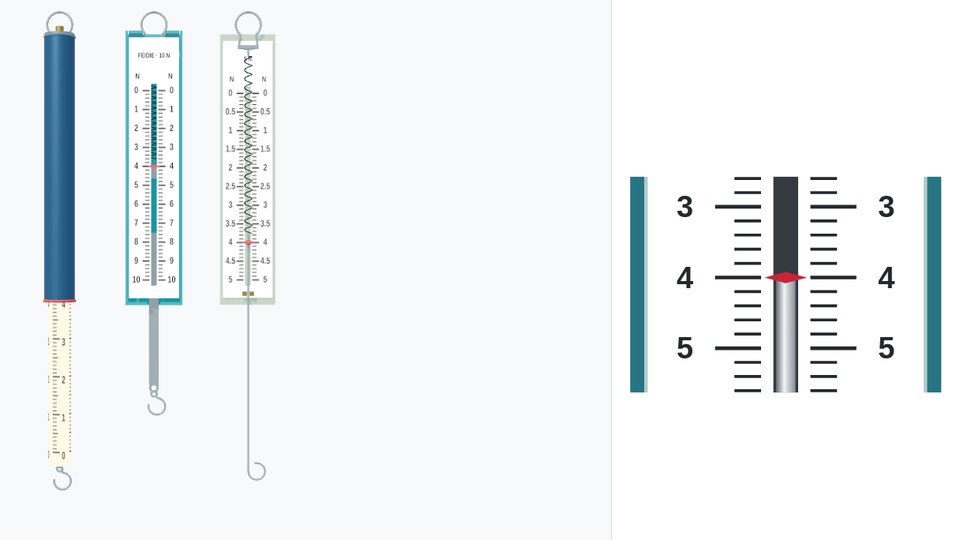
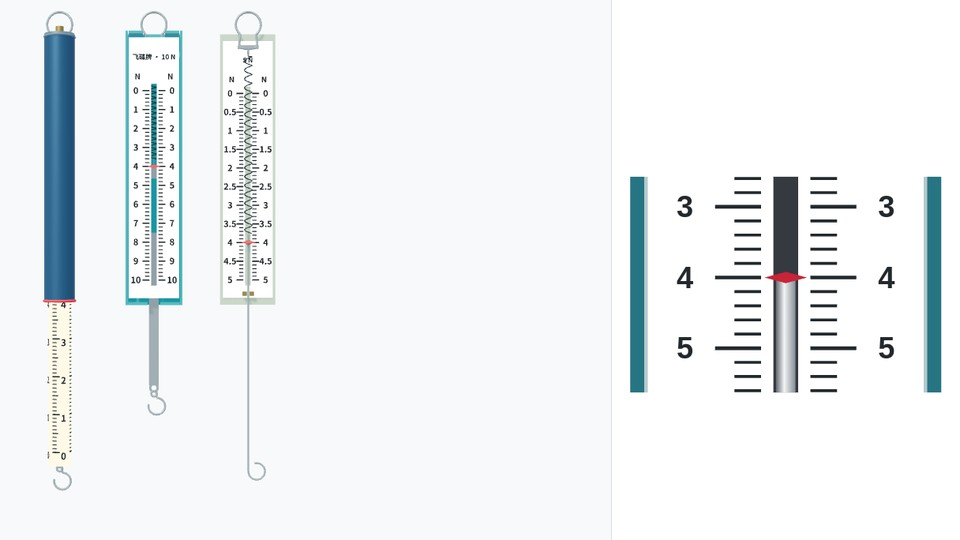
Render spring meter markings as vector geometry

diff --git a/models/spring-force-meters.html b/models/spring-force-meters.html
@@ -68,8 +68,8 @@ input[type=range]{display:block;width:100%;accent-color:var(--accent);margin:5px
 'use strict';
 const $=s=>document.querySelector(s),T=THREE,canvas=$('#view');
 let renderer;try{renderer=new T.WebGLRenderer({canvas,antialias:true,preserveDrawingBuffer:true});}catch(e){$('#error').style.display='block';$('#error').textContent='浏览器无法启动 WebGL。请在 Chrome / Edge 中启用硬件加速。';throw e;}
-renderer.setPixelRatio(Math.min(devicePixelRatio,2));renderer.outputColorSpace=T.SRGBColorSpace;renderer.toneMapping=T.ACESFilmicToneMapping;renderer.toneMappingExposure=1.15;renderer.shadowMap.enabled=true;renderer.shadowMap.type=T.PCFSoftShadowMap;
-const scene=new T.Scene();scene.background=new T.Color('#f7f9fb');const camera=new T.PerspectiveCamera(34,1,.1,2500);
+renderer.outputColorSpace=T.SRGBColorSpace;renderer.toneMapping=T.ACESFilmicToneMapping;renderer.toneMappingExposure=1.15;renderer.shadowMap.enabled=true;renderer.shadowMap.type=T.PCFSoftShadowMap;
+const scene=new T.Scene();scene.background=new T.Color('#f7f9fb');const camera=new T.PerspectiveCamera(34,1,4,2500);
 scene.add(new T.HemisphereLight(0xffffff,0x8192a4,2.0));const sun=new T.DirectionalLight(0xfffcf6,3);sun.position.set(-160,270,280);sun.castShadow=true;sun.shadow.mapSize.set(1024,1024);sun.shadow.camera.left=-250;sun.shadow.camera.right=250;sun.shadow.camera.top=300;sun.shadow.camera.bottom=-350;sun.shadow.camera.far=900;sun.shadow.normalBias=.12;scene.add(sun);
 const room=new T.Scene();room.background=new T.Color('#b6bfc8');function envPanel(x,y,z,w,h,c){const m=new T.Mesh(new T.PlaneGeometry(w,h),new T.MeshBasicMaterial({color:c,side:T.DoubleSide}));m.position.set(x,y,z);m.lookAt(0,0,0);room.add(m);}envPanel(-150,40,180,90,350,'#ffffff');envPanel(180,90,50,100,280,'#eef7ff');envPanel(0,220,0,350,180,'#fff5d9');const pm=new T.PMREMGenerator(renderer);scene.environment=pm.fromScene(room,.03).texture;pm.dispose();
 const mat={steel:new T.MeshStandardMaterial({color:0xaeb9bb,metalness:.88,roughness:.3}),spring:new T.MeshStandardMaterial({color:0x515f62,metalness:.87,roughness:.33}),teal:new T.MeshStandardMaterial({color:0x168188,roughness:.62,metalness:0}),green:new T.MeshStandardMaterial({color:0x95a98f,roughness:.8}),red:new T.MeshStandardMaterial({color:0xd72f3d,roughness:.5}),white:new T.MeshStandardMaterial({color:0xecf0f3,roughness:.8,metalness:.15}),dark:new T.MeshStandardMaterial({color:0x293e3d,roughness:.8}),brass:new T.MeshStandardMaterial({color:0xa18c52,metalness:.85,roughness:.35})};
@@ -84,7 +84,6 @@ function springGeo(d){const v=[],ind=[],N=400,K=8;for(let i=0;i<=N;i++){const t=
 function spring(p){const g=new T.Group();g.name='弹簧与端部挂环';p.add(g);const coil=mesh(springGeo(0),mat.spring,g,'等线径拉伸弹簧');const eyeTop=ring(g,'上挂环直接挂横杆',0,84,0,3,.36,[0,Math.PI/2,0]);rod(g,'上端连接弯线',[[0,81,0],[2.65,81,0]],.36,mat.spring);const eyeBottom=ring(g,'弹簧下端挂环',0,58,0,3,.36,[0,Math.PI/2,0]);return{group:g,coil,eyeBottom};}
 const specs={A:{name:'甲 · 圆筒式',max:5,div:.1,x:-68,majorEvery:10},B:{name:'乙 · 条形盒式',max:10,div:.2,x:0,majorEvery:5},C:{name:'丙 · 开放式',max:5,div:.1,x:68,majorEvery:5}},models={};
 function base(k){const root=new T.Group(),moving=new T.Group(),cover=new T.Group(),housing=new T.Group();scene.add(root);root.name=specs[k].name;root.position.x=specs[k].x;root.add(housing,cover,moving);const sp=spring(root);hanger(root);hook(moving,k==='B'?'独立 S 钩':'下挂钩');const o={root,moving,cover,housing,sp,k,max:specs[k].max,parts:[]};models[k]=o;return o;}
-function canvasTex(c){const t=new T.CanvasTexture(c);t.colorSpace=T.SRGBColorSpace;t.anisotropy=renderer.capabilities.getMaxAnisotropy();t.minFilter=T.LinearMipmapLinearFilter;t.magFilter=T.LinearFilter;return t;}
 const graduations = Object.fromEntries(Object.entries(specs).map(([key, spec]) => {
   const count = Math.round(spec.max / spec.div);
   const marks = Array.from({length:count + 1}, (_, index) => ({
@@ -95,72 +94,130 @@ const graduations = Object.fromEntries(Object.entries(specs).map(([key, spec]) =
   }));
   return [key, marks];
 }));
-function dialTexture(k){
-  const c = document.createElement('canvas');
-  c.width = 1024;
-  c.height = 4096;
-  const ctx = c.getContext('2d');
-  const px = x => (x + 18) / 36 * c.width;
-  const py = y => (93 - y) / 186 * c.height;
-  ctx.fillStyle = '#ffffff';
-  ctx.fillRect(0, 0, c.width, c.height);
-  ctx.fillStyle = ctx.strokeStyle = '#23282c';
-  ctx.textAlign = 'center';
-  ctx.textBaseline = 'middle';
-  ctx.font = 'bold 104px Arial';
-  ctx.fillText(k === 'B' ? 'FEIDIE · 10 N' : '5 N', 512, 290);
-  ctx.font = 'bold 124px Arial';
-  for(const x of [-11.7, 11.7]) ctx.fillText('N', px(x), py(65));
-  ctx.font = 'bold 146px Arial';
-  for(const mark of graduations[k]){
-    const y = py(55 - 135 * mark.fraction);
-    const length = mark.major ? 5.1 : 3.1;
-    ctx.lineWidth = mark.major ? 23 : 15;
-    ctx.beginPath();
-    ctx.moveTo(px(-3.1 - length), y);
-    ctx.lineTo(px(-3.1), y);
-    ctx.moveTo(px(3.1), y);
-    ctx.lineTo(px(3.1 + length), y);
-    ctx.stroke();
+// Noto Sans CJK SC Bold, © 2014–2021 Adobe (SIL OFL 1.1). Outlines use 500 units per em.
+// Each entry is [advance, shapes]; a shape begins with its outer contour, then its counters.
+const scaleGlyphOutlines = {
+  "0": [295,[[[148,-7,167,-5,186,0,203,8,219,19,232,34,244,51,254,72,262,96,268,123,272,154,273,187,272,223,267,256,260,284,251,309,239,330,224,347,208,360,190,369,169,375,148,377,126,375,105,369,87,360,71,347,56,330,44,309,35,284,28,256,23,223,22,187,23,154,27,123,33,96,41,72,51,51,63,34,76,19,92,8,109,0,128,-5],[148,50,137,52,128,56,119,63,111,73,104,87,99,105,95,128,92,155,92,187,92,219,95,245,99,267,104,285,111,299,119,309,128,316,137,319,148,320,158,319,167,316,176,309,184,299,190,285,196,267,200,245,202,219,203,187,202,155,200,128,196,105,190,87,184,73,176,63,167,56,158,52]]]],
+  "1": [295,[[[41,0,264,0,264,60,194,60,194,370,140,370,121,360,102,352,79,345,54,340,54,294,121,294,121,60,41,60]]]],
+  "2": [295,[[[22,0,270,0,270,62,190,62,170,61,149,60,128,58,157,86,183,116,205,145,225,175,239,205,249,234,252,263,250,285,245,305,237,323,226,339,213,352,197,363,178,371,158,375,136,377,112,375,90,371,70,363,52,352,35,338,18,320,58,281,73,296,89,308,107,316,126,319,142,317,156,312,167,303,175,291,180,277,182,260,179,240,173,219,162,198,148,175,130,151,108,126,82,100,54,72,22,42]]]],
+  "3": [295,[[[136,-7,160,-6,182,-1,202,6,220,15,236,27,249,42,259,59,265,78,267,100,265,120,260,138,251,153,240,166,226,177,211,185,194,192,194,194,212,203,227,214,239,227,248,242,253,259,255,278,253,299,248,317,240,332,228,346,214,357,198,366,179,372,158,376,135,377,110,375,86,369,64,360,44,347,24,332,62,286,78,300,95,310,112,317,132,319,146,318,158,314,168,307,175,298,180,286,181,273,180,261,177,250,170,240,162,232,149,226,134,221,115,218,92,216,92,164,119,162,141,159,159,154,172,148,182,139,188,129,192,118,193,104,191,89,185,76,176,66,163,59,148,55,130,53,110,55,93,60,76,68,61,79,48,91,13,44,27,30,44,18,63,8,84,0,109,-5]]]],
+  "4": [295,[[[168,0,237,0,237,96,281,96,281,152,237,152,237,370,148,370,10,146,10,96,168,96],[168,152,82,152,140,244,155,274,169,304,172,304,170,286,169,266,169,246,168,228]]]],
+  "5": [295,[[[138,-7,161,-5,182,0,202,8,220,20,236,35,249,53,259,73,265,97,268,123,266,148,260,170,252,189,241,205,227,218,211,228,193,235,174,239,154,240,138,239,123,236,109,230,116,308,250,308,250,370,52,370,42,190,76,169,88,176,99,182,109,185,120,187,132,188,147,187,160,182,172,175,181,165,188,153,192,138,194,121,192,104,188,88,180,76,170,66,158,59,144,54,128,53,109,55,91,60,75,68,60,79,47,90,13,44,28,30,45,18,64,8,86,0,111,-5]]]],
+  "6": [295,[[[158,-7,179,-5,198,0,216,8,232,20,246,34,258,51,267,71,272,93,274,117,272,142,268,163,260,182,250,198,237,211,223,220,206,227,187,232,168,233,153,231,137,226,121,219,105,208,92,194,94,222,99,247,105,267,113,284,123,297,134,306,146,313,159,317,173,318,189,316,204,310,218,301,230,291,268,335,254,348,237,360,217,369,194,375,168,377,148,376,128,371,110,363,92,353,76,339,62,321,49,300,39,276,31,248,27,216,25,180,27,146,31,116,38,90,47,66,59,46,72,30,87,16,103,6,121,-1,139,-6],[94,142,105,157,117,168,130,175,142,180,154,181,167,180,179,176,188,170,196,161,202,149,206,134,207,117,206,99,202,84,196,71,188,61,179,54,168,50,156,48,144,50,132,55,121,64,111,77,104,94,98,116]]]],
+  "7": [295,[[[93,0,167,0,169,41,172,79,176,114,182,147,189,178,199,207,212,236,228,265,247,295,271,326,271,370,25,370,25,308,192,308,170,276,151,245,136,214,124,182,114,149,106,115,100,79,96,41]]]],
+  "8": [295,[[[148,-7,171,-5,193,-1,213,6,230,16,245,28,256,41,265,57,270,74,272,92,270,116,263,136,254,154,241,168,226,181,210,191,210,194,224,206,237,220,247,238,254,257,257,278,255,299,249,318,240,335,228,349,212,361,194,369,173,375,150,376,126,375,105,370,86,361,70,350,56,336,46,319,40,300,38,278,40,256,47,237,57,219,71,204,87,191,87,188,70,178,55,166,42,151,32,134,26,114,24,92,25,73,31,56,40,41,52,27,66,15,84,6,103,-1,124,-6],[170,212,152,219,136,228,122,238,112,249,105,263,103,278,105,292,109,304,116,313,125,320,136,324,148,325,162,323,174,318,184,310,191,300,196,288,197,274,195,257,190,241,182,226],[149,45,132,47,118,52,105,60,95,71,89,84,87,100,89,116,93,132,100,146,110,158,121,169,141,160,158,152,174,143,186,134,196,123,201,110,204,94,202,80,196,67,188,58,177,51,164,46]]]],
+  "9": [295,[[[128,-7,147,-5,167,-1,185,7,203,18,219,32,233,50,245,71,256,96,263,125,268,157,270,194,268,227,264,256,257,283,247,305,236,325,223,341,208,354,191,364,174,371,155,376,136,377,116,375,96,370,78,362,62,351,48,336,36,319,27,300,22,278,20,254,22,229,26,207,34,188,44,173,56,160,71,150,88,143,106,138,126,137,142,139,158,144,174,152,189,163,202,177,200,148,195,124,189,104,181,87,172,74,161,65,150,58,137,54,124,53,107,55,91,61,77,69,65,80,26,35,41,22,58,10,78,1,101,-5],[201,230,190,214,178,203,165,195,152,191,140,190,127,191,116,195,106,201,98,210,92,222,89,236,88,254,89,272,93,287,99,299,106,309,116,316,126,320,138,322,151,320,163,315,174,306,183,294,191,277,197,256]]]],
+  ".": [162,[[[82,-7,94,-5,105,-1,114,7,121,17,125,28,127,41,125,54,121,66,114,75,105,83,94,87,82,89,69,87,58,83,49,75,42,66,37,54,36,41,37,28,42,17,49,7,58,-1,69,-5]]]],
+  "N": [374,[[[46,0,116,0,116,148,115,181,112,214,109,246,106,278,109,278,146,198,253,0,328,0,328,370,258,370,258,222,260,190,262,156,265,124,268,93,266,93,228,173,121,370,46,370]]]],
+  "·": [500,[[[250,254,235,252,222,247,210,240,200,230,193,218,188,205,186,190,188,175,193,162,200,150,210,140,222,133,235,128,250,126,265,128,278,133,290,140,300,150,307,162,312,175,314,190,312,205,307,218,300,230,290,240,278,247,265,252]]]],
+  "飞": [500,[[[422,369,405,348,385,325,363,303,340,281,339,319,339,359,339,400,27,400,27,338,278,338,280,283,283,231,287,184,292,140,300,101,310,66,321,36,336,11,352,-9,372,-23,395,-32,422,-35,436,-34,448,-30,459,-22,467,-11,474,4,479,23,483,47,486,76,471,86,456,99,442,114,441,92,439,73,437,57,435,45,432,36,428,30,424,28,410,30,397,37,386,48,377,63,368,82,361,104,355,131,350,161,346,195,370,182,394,168,416,154,435,141,450,128,481,176,464,189,444,201,420,215,396,228,372,240,398,264,425,288,451,314,476,340]]]],
+  "碟": [500,[[[22,402,22,348,75,348,67,309,56,272,43,237,28,206,10,179,15,169,19,156,23,143,27,129,30,117,32,108,41,120,50,132,50,-21,99,-21,99,16,176,16,176,247,104,247,119,297,131,348,181,348,181,402],[99,194,127,194,127,68,99,68]],[[216,411,216,358,186,358,186,311,216,311,216,171,298,171,298,140,186,140,186,90,275,90,258,70,238,50,217,32,194,16,170,4,180,-6,191,-18,201,-30,208,-42,233,-25,256,-5,278,17,298,42,298,-44,353,-44,353,48,374,22,398,-1,422,-21,447,-37,455,-26,465,-13,475,-1,486,8,461,20,437,35,413,52,392,71,374,90,478,90,478,140,353,140,353,171,460,171,460,218,266,218,266,311,300,311,300,241,430,241,430,311,473,311,473,358,430,358,430,418,380,418,380,358,348,358,348,418,300,418,300,358,266,358,266,411],[380,311,380,281,348,281,348,311]]]],
+  "牌": [500,[[[220,378,220,178,288,178,276,165,260,152,240,140,216,130,226,122,237,113,246,104,202,104,202,54,360,54,360,-45,416,-45,416,54,482,54,482,104,416,104,416,168,360,168,360,104,270,104,293,117,312,131,328,146,340,161,350,178,468,178,468,378,360,378,380,414,314,426,310,411,305,394,299,378],[272,258,318,258,316,241,312,223,272,223],[368,258,414,258,414,223,365,223,367,240],[272,333,318,333,318,300,272,300],[368,333,414,333,414,300,368,300]],[[43,412,43,225,43,197,42,166,40,133,38,99,34,65,28,32,21,0,12,-28,24,-32,37,-36,51,-41,62,-46,71,-13,79,22,85,59,89,97,92,134,136,134,136,-46,190,-46,190,185,94,185,94,225,94,242,211,242,211,293,178,293,178,424,126,424,126,293,94,293,94,412]]]],
+};
+const scaleGlyphs = Object.fromEntries(Object.entries(scaleGlyphOutlines).map(([character,[advance,shapes]]) => {
+  const contours = shapes.map(rings => {
+    const [outer,...holes] = rings.map(ring => {
+      const points = [];
+      for(let i = 0; i < ring.length; i += 2) points.push(new T.Vector2(ring[i],ring[i + 1]));
+      return points;
+    });
+    const triangles = T.ShapeUtils.triangulateShape(outer,holes);
+    return {points:outer.concat(...holes),triangles};
+  });
+  return [character,{advance,contours}];
+}));
+const scaleInk = new T.MeshBasicMaterial({color:0x23282c,toneMapped:false});
+const scaleWhite = new T.MeshBasicMaterial({color:0xffffff,toneMapped:false});
+const scaleIvory = new T.MeshBasicMaterial({color:0xfff9e7,toneMapped:false});
+const rectTriangles = [[0,1,2],[0,2,3]];
+
+function createScaleGeometry(project){
+  const vertices = [], indices = [];
+  function append(points,triangles){
+    const base = vertices.length / 3;
+    for(const {x,y} of points) vertices.push(...project(x,y));
+    for(const triangle of triangles) indices.push(...triangle.map(index => base + index));
+  }
+  return {
+    mark(left,right,y,thickness,segments=1){
+      const bottom = y - thickness / 2, top = y + thickness / 2;
+      for(let i = 0; i < segments; i++){
+        const x0 = T.MathUtils.lerp(left,right,i / segments);
+        const x1 = T.MathUtils.lerp(left,right,(i + 1) / segments);
+        append([{x:x0,y:bottom},{x:x1,y:bottom},{x:x1,y:top},{x:x0,y:top}],rectTriangles);
+      }
+    },
+    label(value,x,y,size){
+      const characters = [...String(value)];
+      const width = character => scaleGlyphs[character]?.advance ?? 112;
+      const scale = size / 500;
+      let left = x - characters.reduce((sum,character) => sum + width(character),0) * scale / 2;
+      for(const character of characters){
+        const glyph = scaleGlyphs[character];
+        if(glyph){
+          for(const {points,triangles} of glyph.contours){
+            append(points.map(p => ({x:left + p.x * scale,y:y + (p.y - 182) * scale})),triangles);
+          }
+        }
+        left += width(character) * scale;
+      }
+    },
+    build(){
+      const geometry = new T.BufferGeometry();
+      geometry.setAttribute('position',new T.Float32BufferAttribute(vertices,3));
+      geometry.setIndex(indices);
+      return geometry;
+    },
+  };
+}
+function mountScale(parent,layout,position){
+  const scale = mesh(layout.build(),scaleInk,parent,'矢量刻线与标字',position);
+  scale.castShadow = false;
+  scale.receiveShadow = false;
+}
+function frontPanel(o){
+  const depth = .7;
+  const plateZ = 7.7;
+  shapePlate(o.cover,'有厚度的金属刻度板',-18,18,-93,93,plateZ,[[-2,2,-84,60]],[scaleWhite,mat.white],depth);
+  const art = createScaleGeometry((x,y) => [x,y,0]);
+  art.label(o.k === 'B' ? '飞碟牌 · 10 N' : '5 N',0,79,4.65);
+  for(const x of [-11.7,11.7]) art.label('N',x,65,5.5);
+  for(const mark of graduations[o.k]){
+    const y = 55 - 135 * mark.fraction;
+    const edge = mark.major ? 8.2 : 6.3;
+    const thickness = mark.major ? .92 : .63;
+    art.mark(-edge,-3.2,y,thickness);
+    art.mark(3.2,edge,y,thickness);
     if(mark.major){
-      for(const x of [-12.6, 12.6]) ctx.fillText(mark.value, px(x), y);
+      for(const x of [-12.9,12.9]) art.label(mark.value,x,y,6.1);
     }
   }
-  return canvasTex(c);
+  // The marks sit on the single solid panel, ahead of its cap and behind the moving pointer.
+  mountScale(o.cover,art,[0,0,plateZ + depth + .16]);
 }
-function scaleMaterial(map, side = T.FrontSide){
-  const material = new T.MeshBasicMaterial({map, side, toneMapped:false});
-  material.userData.noMaterialFinish = true;
-  return material;
-}
-function frontPanel(o){const shape=new T.Shape();shape.moveTo(-18,-93);shape.lineTo(18,-93);shape.lineTo(18,93);shape.lineTo(-18,93);shape.closePath();const hole=new T.Path();hole.moveTo(-2,-84);hole.lineTo(-2,60);hole.lineTo(2,60);hole.lineTo(2,-84);hole.closePath();shape.holes.push(hole);const geo=new T.ShapeGeometry(shape);const uv=geo.attributes.uv,ps=geo.attributes.position;for(let i=0;i<uv.count;i++)uv.setXY(i,(ps.getX(i)+18)/36,(ps.getY(i)+93)/186);mesh(geo,scaleMaterial(dialTexture(o.k),T.DoubleSide),o.cover,'开槽刻度正面',[0,0,8.5]);shapePlate(o.cover,'有厚度的金属刻度板',-18,18,-93,93,7.7,[[-2,2,-84,60]],mat.white,.7);}
 function pointer(o,width=9){const s=new T.Shape();s.moveTo(-width/2,0);s.lineTo(-1,1.1);s.lineTo(1,1.1);s.lineTo(width/2,0);s.lineTo(1,-1.1);s.lineTo(-1,-1.1);s.closePath();const p=mesh(new T.ExtrudeGeometry(s,{depth:.35,bevelEnabled:false}),mat.red,o.moving,'两端尖细红色指示片',[0,55,8.8]);box(o.moving,'折弯指针连接片',0,55,4.2,2.4,.65,9,mat.steel);o.pointer=p;}
 function buildB(){const o=base('B');box(o.housing,'槽形外壳背板',0,0,-5,40,196,1.5,mat.teal);for(const s of [-1,1]){box(o.housing,'塑料侧壁',s*19.5,0,1.5,1.5,196,12,mat.teal);box(o.housing,'内部导向筋',s*6.5,-2,-2.9,1,184,2.7,mat.teal);box(o.housing,'顶部开口边',s*13,97,1.5,10,2,12,mat.teal);box(o.housing,'底部开口边',s*11.5,-97,1.5,14,2,12,mat.teal);}shapePlate(o.moving,'冲压长片及矩形镂空',-3.5,3.5,-102,55,-.35,[[-2.2,2.2,8,47]],mat.steel,.7);const eye=new T.Shape();eye.absarc(0,-103.8,3.5,0,Math.PI*2,false);const h=new T.Path();h.absarc(0,-103.8,1.9,0,Math.PI*2,true);eye.holes.push(h);mesh(new T.ExtrudeGeometry(eye,{depth:.7,bevelEnabled:false}),mat.steel,o.moving,'活动片底端穿钩孔',[0,0,-.35]);pointer(o);frontPanel(o);return o;}
 function buildC(){const o=base('C');box(o.housing,'浅绿磨砂底板',0,0,-5,40,196,2,mat.green);frontPanel(o);o.cover.children.forEach(x=>x.position.z-=11.8);o.moving.remove(o.moving.getObjectByName('下挂钩'));const jp=[[0,55,0],[0,-110,0]];for(let i=0;i<=45;i++){const a=(180+i*285/45)*Math.PI/180;jp.push([6+6*Math.cos(a),-110+6*Math.sin(a),0]);}rod(o.moving,'传力杆与挂钩连续成型',jp,.65,mat.steel);pointer(o,11);o.pointer.position.z=2.3;o.moving.getObjectByName('折弯指针连接片').position.z=1;box(o.moving,'指针固定头',0,55,.5,3,3,3,mat.brass);box(o.housing,'上端支承片',0,88,-1.8,15,2,5,mat.steel);for(const s of[-1,1])box(o.housing,'下部导向座',s*2.5,-90,-1.6,3,3,5,mat.brass);return o;}
-function cylinderScaleTexture(){
-  const c = document.createElement('canvas');
-  c.width = 2048;
-  c.height = 4096;
-  const ctx = c.getContext('2d');
-  ctx.fillStyle = '#fff9e7';
-  ctx.fillRect(0, 0, c.width, c.height);
-  ctx.fillStyle = '#23282c';
-  ctx.textAlign = 'center';
-  ctx.textBaseline = 'middle';
-  ctx.font = 'bold 188px Arial';
-  for(let side = 0; side < 4; side++){
-    const x = side * 512 + 256;
+function cylinderScale(tube){
+  const radius = 8.4;
+  const inkRadius = radius + .24;
+  for(let quarter = 0; quarter < 4; quarter++){
+    const angle = quarter * Math.PI / 2;
+    const art = createScaleGeometry((x,y) => {
+      const theta = angle + x / radius;
+      return [inkRadius * Math.sin(theta),y,inkRadius * Math.cos(theta)];
+    });
     for(const mark of graduations.A){
-      const y = (155 - 135 * mark.fraction) / 165 * c.height;
-      const width = mark.major ? 210 : mark.middle ? 161 : 123;
-      const thickness = mark.major ? 24 : mark.middle ? 19 : 14;
-      ctx.fillRect(x - 175, y - thickness / 2, width, thickness);
-      if(mark.major) ctx.fillText(mark.value, x + 140, y + 68);
+      const y = -72.5 + 135 * mark.fraction;
+      const width = mark.major ? 5.4 : mark.middle ? 4.2 : 3.2;
+      const thickness = mark.major ? .88 : mark.middle ? .70 : .56;
+      art.mark(-4.5,-4.5 + width,y,thickness,Math.ceil(width));
+      if(mark.major) art.label(mark.value,3.55,y - 2.75,6.45);
     }
+    mountScale(tube,art);
   }
-  return canvasTex(c);
 }
-function buildA(){const o=base('A');const outerMat=new T.MeshStandardMaterial({color:0x355e7c,metalness:.65,roughness:.43});const rimMat=new T.MeshStandardMaterial({color:0x879da8,metalness:.85,roughness:.29});const shell=mesh(new T.CylinderGeometry(11,11,190,96,1,true),outerMat,o.housing,'金属外筒');o.shell=shell;for(const y of[-95,95]){const t=ring(o.housing,'外筒端缘',0,y,0,10.8,.8,[Math.PI/2,0,0]);t.material=rimMat;}mesh(new T.CylinderGeometry(11,11,2,64),rimMat,o.housing,'上端盖',[0,96,0]);mesh(new T.CylinderGeometry(2.8,2.8,5,32),mat.brass,o.housing,'调零螺纹座',[0,100,0]);const lower=ring(o.root,'固定读数口红色标边',0,-95,0,11.05,.95,[Math.PI/2,0,0]);const tube=mesh(new T.CylinderGeometry(8.4,8.4,165,96,1,true),scaleMaterial(cylinderScaleTexture()),o.moving,'长刻度内管',[0,-22.5,0]);tube.rotation.y=-Math.PI/4;o.inner=tube;mesh(new T.CylinderGeometry(8.4,8.4,1,64),mat.steel,o.moving,'弹簧下端与内管连接片',[0,59.5,0]);box(o.moving,'内管下端挂钩连接',0,-106,0,4,3,3,mat.steel);lower.material=mat.red;o.lower=lower;return o;}
+function buildA(){const o=base('A');const outerMat=new T.MeshStandardMaterial({color:0x355e7c,metalness:.65,roughness:.43});const rimMat=new T.MeshStandardMaterial({color:0x879da8,metalness:.85,roughness:.29});const shell=mesh(new T.CylinderGeometry(11,11,190,96,1,true),outerMat,o.housing,'金属外筒');o.shell=shell;for(const y of[-95,95]){const t=ring(o.housing,'外筒端缘',0,y,0,10.8,.8,[Math.PI/2,0,0]);t.material=rimMat;}mesh(new T.CylinderGeometry(11,11,2,64),rimMat,o.housing,'上端盖',[0,96,0]);mesh(new T.CylinderGeometry(2.8,2.8,5,32),mat.brass,o.housing,'调零螺纹座',[0,100,0]);const lower=ring(o.root,'固定读数口红色标边',0,-95,0,11.05,.95,[Math.PI/2,0,0]);const tube=mesh(new T.CylinderGeometry(8.4,8.4,165,96,1,true),scaleIvory,o.moving,'长刻度内管',[0,-22.5,0]);cylinderScale(tube);o.inner=tube;mesh(new T.CylinderGeometry(8.4,8.4,1,64),mat.steel,o.moving,'弹簧下端与内管连接片',[0,59.5,0]);box(o.moving,'内管下端挂钩连接',0,-106,0,4,3,3,mat.steel);lower.material=mat.red;o.lower=lower;return o;}
 buildA();buildB();buildC();
 let manualView=false;
 const state={selected:'all',mode:'closed',force:0,play:false,t0:0,angle:'front'};
@@ -171,6 +228,8 @@ function focus(view='front'){const single=state.selected!=='all';const o=single?
 function resize(){
   const {clientWidth:width, clientHeight:height} = canvas;
   if(!width || !height) return;
+  const pixelRatio = Math.min(window.devicePixelRatio,2);
+  if(renderer.getPixelRatio() !== pixelRatio) renderer.setPixelRatio(pixelRatio);
   renderer.setSize(width,height,false);
   camera.aspect = width / height;
   camera.updateProjectionMatrix();

diff --git a/catalog.js b/catalog.js
@@ -749,8 +749,8 @@ window.MODEL_CATALOG = [
       "条形盒式",
       "结构观察"
     ],
-    "path": "models/spring-force-meters.html?v=20261128-v9",
-    "cover": "assets/covers/spring-force-meters-scene.jpg?v=20261128-v9",
+    "path": "models/spring-force-meters.html?v=20261128-v10",
+    "cover": "assets/covers/spring-force-meters-scene.jpg?v=20261128-v10",
     "symbol": "力",
     "accent": "green"
   },

diff --git a/index.html b/index.html
@@ -115,7 +115,7 @@
   </div>
 </section>
 
-<script src="catalog.js?v=20261128-spring-readout"></script>
+<script src="catalog.js?v=20261128-spring-vector"></script>
 <script>
 (() => {
   const data = Array.isArray(window.MODEL_CATALOG) ? window.MODEL_CATALOG : [];

diff --git a/docs/spring-force-meters.md b/docs/spring-force-meters.md
@@ -1,4 +1,4 @@
-# 弹簧测力计 · 三种结构（V9）
+# 弹簧测力计 · 三种结构（V10）
 
 入口：`models/spring-force-meters.html`，分类：力学实验。
 
@@ -7,13 +7,13 @@
 - 甲：圆筒式 5 N，分度值 0.1 N。深蓝外筒固定，浅米黄长刻度内管随弹簧下端及挂钩移动，以红色固定下沿读数；数字放大、主副刻线分级加粗。类型依据育星仪器 14005 圆筒测力计说明，内部支承、连接和尺寸为教学推定，不能宣称与用户早期图片逐件一致。
 - 乙：条形盒式 10 N，分度值 0.2 N。按用户拆解确认的连接关系：上圆环与盒内横杆一体；弹簧上端直接挂横杆，下端接冲压金属长片；指示片固定于长片折弯部，经固定刻度板中央通槽露出；独立 S 钩穿接长片底孔。无虚构黑色调零盘或圆形主拉杆。形状尺寸按照片比例估计，并未实测标定。
 - 丙：开放式 5 N，分度值 0.1 N，直接观察弹簧、传力杆与指针。传力杆与下挂钩连续成型；接头和导向座细节仍待原始实物图片核对。类型参考育星仪器 14008 平板测力计，非指定品牌精确复刻。
-- 同一拉力驱动弹簧、活动件、挂钩、Canvas 刻度对应位置与 SVG 特写。三款对照范围 0–5 N；单独选择乙款可到 10 N。满量程显示行程为 135 个模型单位，不是实测伸长量；未给出虚构劲度系数或精密仪器误差。
+- 同一拉力驱动弹簧、活动件、挂钩、三维矢量刻度对应位置与 SVG 特写。三款对照范围 0–5 N；单独选择乙款可到 10 N。满量程显示行程为 135 个模型单位，不是实测伸长量；未给出虚构劲度系数或精密仪器误差。
 - 分解仅移开固定壳体和刻度板，传力链保持连接；侧壁剖切为移除遮挡部件的教学视图。
 
 ## 显示、操作与依赖
 
-- Three.js r160、PMREM 程序摄影棚环境与 PBR 立体器材。刻度保留 Canvas 1024×4096 面板和 2048×4096 圆筒纹理，采用浅底深色加粗刻线及独立的刻度材质。
-- 本地公共库 `../shared/vendor/three-r160.min.js`，以及 `material-finish.js`、`navigation-style.js`。刻度材质明确退出旧化，避免纹理与可读性被改变。无 CDN 请求。
+- Three.js r160、PMREM 程序摄影棚环境与 PBR 立体器材。线形标记与数字字形直接由 WebGL 绘制为三维矢量网格。条形盒式与开放式使用单层实体面板，刻度矢量与面板、指针保持深度间距；圆筒式刻度随内管移动。乙款面板标示「飞碟牌 · 10 N」。
+- 本地公共库 `../shared/vendor/three-r160.min.js`，以及 `material-finish.js`、`navigation-style.js`。刻度采用独立的颜色材质。无 CDN 请求。嵌入的标字轮廓来自 [Noto Sans CJK SC Bold](https://github.com/notofonts/noto-cjk)（SIL Open Font License 1.1）。
 - 左拖旋转（模型跟随拖动方向）、右拖/Shift 左拖按相机屏幕方向平移、滚轮缩放；双指平移缩放。自动取景覆盖加载行程，手动操作后停止自动取景，点击全景恢复。
 - 桌面宽屏并排显示 3D 画布、SVG 局部读数和操作栏。点击「读数特写」可收展，窄屏展开时放大窗位于画布下方。甲款放大固定读数下沿，乙、丙款跟随移动的指针。
 - 首页仅打开时加载 iframe，返回后卸载；页面离开时停止动画并释放 WebGL 上下文。

diff --git a/README.md b/README.md
@@ -118,7 +118,7 @@
 - [生活中的轮轴 · 四种实物观察](https://zmdyy.github.io/3Dmodels/models/wheel-axle.html?v=20261108) — 螺丝刀、扳手、水龙头与水井辘轳 · [源码](./models/wheel-axle.html)
 - [大气压与按压泵](https://zmdyy.github.io/3Dmodels/models/pressure-pumps.html?v=20261026-v4) — 洗手液泵与气囊取水器 · 双案例剖面 · [源码](./models/pressure-pumps.html)
 - [绿豆密度 · 等体积替代](https://zmdyy.github.io/3Dmodels/models/mung-bean-density.html?v=20261026-1) — 四步实验、四次称量与物理量总览 · [源码](./models/mung-bean-density.html)
-- [弹簧测力计 · 三种结构](https://zmdyy.github.io/3Dmodels/models/spring-force-meters.html?v=20261128-v9) — 圆筒式、条形盒式与开放式 · [源码](./models/spring-force-meters.html)
+- [弹簧测力计 · 三种结构](https://zmdyy.github.io/3Dmodels/models/spring-force-meters.html?v=20261128-v10) — 圆筒式、条形盒式与开放式 · [源码](./models/spring-force-meters.html)
 - [深中通道 E15 · 沉管浮运安装](https://zmdyy.github.io/3Dmodels/models/shenzhong-e15.html?v=20261026-v26) — 十阶段施工演示 · 分阶段自动跟随镜头 · [源码](./models/shenzhong-e15.html)
 - [浮力的测量](https://zmdyy.github.io/3Dmodels/models/buoyancy-measurement.html?v=20261031-v3-pointer-2x) — 空气中称重 · 浸入液体 · 弹簧测力计精细读数 · [源码](./models/buoyancy-measurement.html)
 - [浮力与密度实验室](https://zmdyy.github.io/3Dmodels/models/buoyancy-density-lab.html?v=20261102-glass-b22) — 标准实验、溢水杯、剪绳、底部拴绳与套杯托起 · [源码](./models/buoyancy-density-lab.html)
